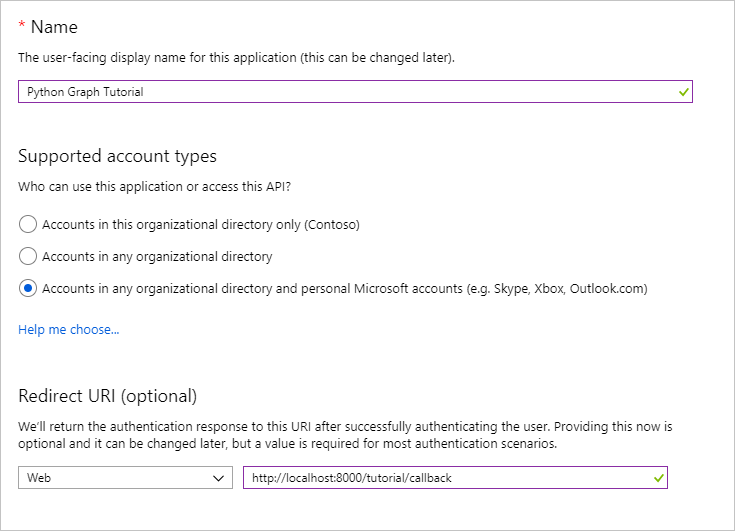
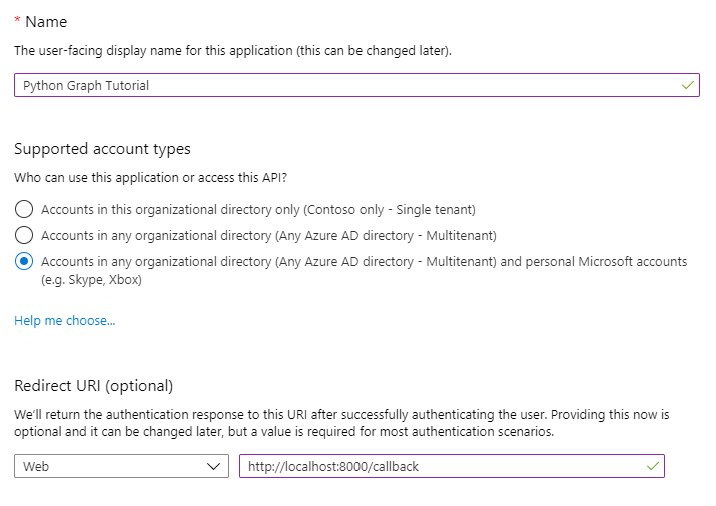
Update app registration steps

diff --git a/demo/graph_tutorial/tutorial/urls.py b/demo/graph_tutorial/tutorial/urls.py
@@ -7,7 +7,7 @@ from django.urls import path
 from . import views
 
 urlpatterns = [
-  # /tutorial
+  # /
   path('', views.home, name='home'),
   # TEMPORARY
   path('signin', views.home, name='signin'),

diff --git a/tutorial/03-register-app.md b/tutorial/03-register-app.md
@@ -12,7 +12,7 @@ In this exercise, you will create a new Azure AD web application registration us
 
     - Set **Name** to `Python Graph Tutorial`.
     - Set **Supported account types** to **Accounts in any organizational directory and personal Microsoft accounts**.
-    - Under **Redirect URI**, set the first drop-down to `Web` and set the value to `http://localhost:8000/tutorial/callback`.
+    - Under **Redirect URI**, set the first drop-down to `Web` and set the value to `http://localhost:8000/callback`.
 
     ![A screenshot of the Register an application page](./images/aad-register-an-app.png)
 

diff --git a/tutorial/02-create-app.md b/tutorial/02-create-app.md
@@ -44,7 +44,7 @@ pip install Django==3.0.4
     from . import views
 
     urlpatterns = [
-      # /tutorial
+      # /
       path('', views.home, name='home'),
       # TEMPORARY
       path('signin', views.home, name='signin'),
